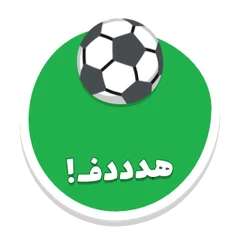
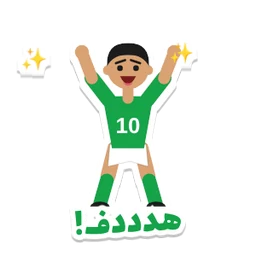
Replace sticker pack with cartoon football players
14 original illustrated players and referees (celebrating, diving,
red card, keeper save, bicycle kick, VAR, offside flag, and more).
Older sticker images stay in place so past messages still render.

Claude-Session: https://claude.ai/code/session_01Q4h4sPaJdWh81PZwcFBkCD

diff --git a/app.js b/app.js
@@ -21,7 +21,7 @@ const TEAMS = {
 const TEAM_BY_ID = {};
 for (const lg in TEAMS) for (const [id, name, color] of TEAMS[lg]) TEAM_BY_ID[id] = { id, name, color };
 
-const APP_VERSION = 9; // keep in sync with version.json and the ?v= in index.html
+const APP_VERSION = 10; // keep in sync with version.json and the ?v= in index.html
 
 // When a newer version is published, reload once to pick it up (the home-screen app can stay open for days).
 async function checkForUpdate() {
@@ -40,8 +40,9 @@ document.addEventListener("visibilitychange", () => { if (document.visibilitySta
 const EMOJIS = ["👍", "🔥", "😂", "😡"];
 const BUCKET = "chat-images";
 const AUDIO_BUCKET = "chat-audio";
-// Built-in sticker pack: [id, label]
-const STICKERS = [["goal","هدددف!"],["offside","تسلل!"],["var","راجع الفار"],["red","كرت أحمر"],["yellow","إنذار!"],["wow","يا ساتر!"],["fire","نااار"],["remontada","ريمونتادا"],["ref","وين الحكم؟"],["champ","الأبطال"],["sleep","الدفاع نايم"],["penalty","بلنتي!"],["lol","ههههه"],["gg","كفو!"]];
+// Built-in sticker pack: [id, label]. Older sticker files stay in /stickers so past messages still show.
+const STICKERS = [["goal","هدددف!"],["gg","كفو!"],["champ","الأبطال"],["shh","اسكتوا!"],["miss","ضيّعها!"],["cry","يا حسرة"],["foul","وين الفاول؟"],["dive","تمثيل!"],["save","صدّة!"],["bicycle","مقصية!"],["sleep","الدفاع نايم"],["red","طرد!"],["offside","تسلل!"],["var","راجع الفار"]];
+const OLD_STICKERS = { yellow: "إنذار!", wow: "يا ساتر!", fire: "نااار", remontada: "ريمونتادا", ref: "وين الحكم؟", penalty: "بلنتي!", lol: "ههههه" };
 const PAGE = 200;
 const $ = (id) => document.getElementById(id);
 const el = (tag, cls, text) => { const e = document.createElement(tag); if (cls) e.className = cls; if (text != null) e.textContent = text; return e; };
@@ -434,7 +435,7 @@ function snippet(m) {
   if (m.poll) return "📊 " + m.poll.question;
   if (m.image_path || m.localUrl) return "📷 صورة";
   if (m.gif_url) return "GIF";
-  if (m.sticker) return "ملصق " + (STICKERS.find(s => s[0] === m.sticker)?.[1] || "");
+  if (m.sticker) return "ملصق " + (STICKERS.find(s => s[0] === m.sticker)?.[1] || OLD_STICKERS[m.sticker] || "");
   if (m.audio_path || m.localAudio) return "🎤 رسالة صوتية " + fmtSecs(m.audio_secs || 0);
   return "";
 }
@@ -494,7 +495,7 @@ function messageRow(m, cont) {
     b.append(q);
   }
   if (m.sticker) {
-    const st = el("img", "sticker"); st.src = `stickers/${m.sticker}.webp`; st.alt = STICKERS.find(s => s[0] === m.sticker)?.[1] || "ملصق";
+    const st = el("img", "sticker"); st.src = `stickers/${m.sticker}.webp`; st.alt = STICKERS.find(s => s[0] === m.sticker)?.[1] || OLD_STICKERS[m.sticker] || "ملصق";
     b.append(st);
   }
   if (m.gif_url) {

diff --git a/index.html b/index.html
@@ -448,6 +448,6 @@ a.small { text-decoration: none; display: inline-block; }
 
 <script src="https://cdn.jsdelivr.net/npm/@supabase/supabase-js@2.117.2/dist/umd/supabase.js"></script>
 <script src="config.js?v=4"></script>
-<script src="app.js?v=9"></script>
+<script src="app.js?v=10"></script>
 </body>
 </html>
